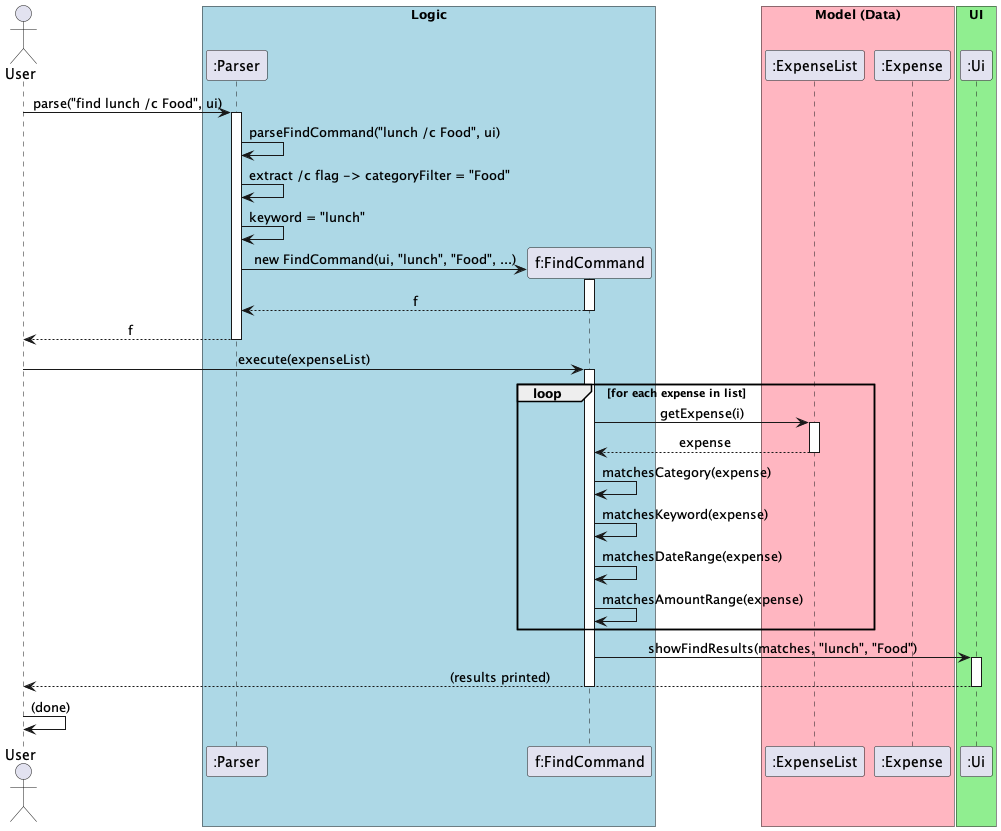
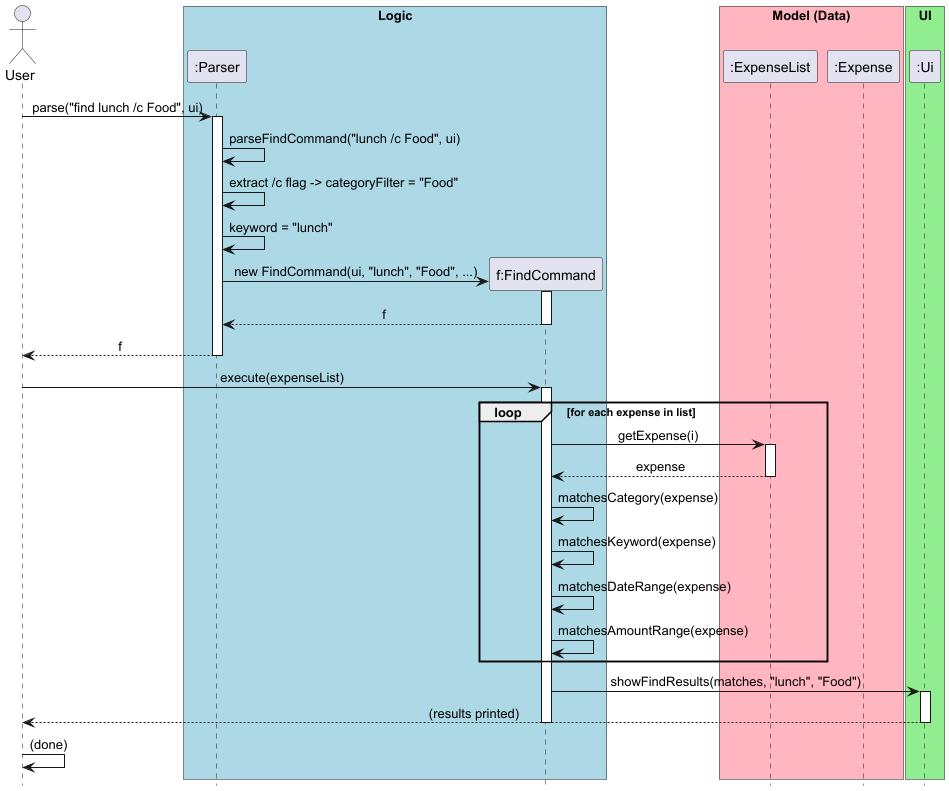
Fixed bugs in help command and formatted DG diagrams for uniformity

diff --git a/src/main/java/seedu/duke/ui/Ui.java b/src/main/java/seedu/duke/ui/Ui.java
@@ -132,14 +132,14 @@ public class Ui {
         System.out.println("             [/c CATEGORY] [/da DATE]");
         System.out.println("  find [KEYWORD] [/c CAT] [/dmin DATE]      - Find/filter expenses");
         System.out.println("       [/dmax DATE] [/amin AMT] [/amax AMT] [/sort asc|desc]");
-        System.out.println("  sort category|date                        - Sort expenses");
+        System.out.println("  sort category|date|amount                 - Sort expenses");
         System.out.println("  stats                                     - Show spending statistics and graph " +
                 "by category");
         System.out.println("  lend AMOUNT BORROWER [/da DATE]           - Record money lent to someone");
         System.out.println("  loans                                     - Show outstanding loans");
         System.out.println("  loans /all                                - Show all loans (incl. repaid)");
         System.out.println("  repay INDEX [AMOUNT]                      - Repay a loan (fully or partially)");
-        System.out.println("  help [COMMAND]                             - Show help for a command");
+        System.out.println("  help [COMMAND]                            - Show help for a command");
         System.out.println("  exit                                      - Exit the application");
         System.out.println("  forecast                                  - Show end-of-month spending forecast");
         System.out.println("Note: DATE must be in YYYY-MM-DD format (e.g. 2026-03-24).");
@@ -488,7 +488,7 @@ public class Ui {
      */
     public void showInvalidBudget() {
         System.out.println(LINE);
-        System.out.println("Budget must be a number greater then 0.");
+        System.out.println("Budget must be a number greater than 0.");
         System.out.println(LINE);
     }
 
@@ -958,6 +958,82 @@ public class Ui {
         System.out.println("Invalid format! The '" + command + "' command does not take any extra arguments.");
         System.out.println("Please just type '" + command + "'.");
         System.out.println("~~~~~~~~~~~~~~~~~~~~~~~~~~~~~~~~");
+    }
+
+    /**
+     * Displays usage instructions for the list command.
+     */
+    public void showListUsage() {
+        System.out.println(LINE);
+        System.out.println("Usage: list");
+        System.out.println("       list <YYYY-MM>");
+        System.out.println("Example: list");
+        System.out.println("Example: list 2026-03");
+        System.out.println(LINE);
+    }
+
+    /**
+     * Displays usage instructions for the total command.
+     */
+    public void showTotalUsage() {
+        System.out.println(LINE);
+        System.out.println("Usage: total");
+        System.out.println("Shows the total amount spent across all recorded expenses.");
+        System.out.println(LINE);
+    }
+
+    /**
+     * Displays usage instructions for the stats command.
+     */
+    public void showStatsUsage() {
+        System.out.println(LINE);
+        System.out.println("Usage: stats");
+        System.out.println("       stats <YYYY>");
+        System.out.println("Example: stats");
+        System.out.println("Example: stats 2026");
+        System.out.println(LINE);
+    }
+
+    /**
+     * Displays usage instructions for the forecast command.
+     */
+    public void showForecastUsage() {
+        System.out.println(LINE);
+        System.out.println("Usage: forecast");
+        System.out.println("Shows your projected end-of-month spending.");
+        System.out.println(LINE);
+    }
+
+    /**
+     * Displays usage instructions for the clear command.
+     */
+    public void showClearUsage() {
+        System.out.println(LINE);
+        System.out.println("Usage: clear");
+        System.out.println("Clears all expenses after confirmation.");
+        System.out.println(LINE);
+    }
+
+    /**
+     * Displays usage instructions for the exit command.
+     */
+    public void showExitUsage() {
+        System.out.println(LINE);
+        System.out.println("Usage: exit");
+        System.out.println("Saves data and exits the application.");
+        System.out.println(LINE);
+    }
+
+    /**
+     * Displays usage instructions for the help command.
+     */
+    public void showHelpUsage() {
+        System.out.println(LINE);
+        System.out.println("Usage: help");
+        System.out.println("       help <COMMAND>");
+        System.out.println("Example: help add");
+        System.out.println("Example: help budget");
+        System.out.println(LINE);
     }
 
     /**

diff --git a/src/main/java/seedu/duke/parser/Parser.java b/src/main/java/seedu/duke/parser/Parser.java
@@ -857,6 +857,27 @@ public class Parser {
         case "repay":
             ui.showRepayUsage();
             break;
+        case "list":
+            ui.showListUsage();
+            break;
+        case "total":
+            ui.showTotalUsage();
+            break;
+        case "stats":
+            ui.showStatsUsage();
+            break;
+        case "forecast":
+            ui.showForecastUsage();
+            break;
+        case "clear":
+            ui.showClearUsage();
+            break;
+        case "exit":
+            ui.showExitUsage();
+            break;
+        case "help":
+            ui.showHelpUsage();
+            break;
         default:
             ui.showUnknownCommand();
             break;

diff --git a/docs/DeveloperGuide.md b/docs/DeveloperGuide.md
@@ -89,7 +89,7 @@ A valid command results in the creation of an `AddCommand` object.
 Below is the sequence of interactions when the user enters a valid command such as `add 5.50 Coffee /c Food`:
 
 *Figure 2: Sequence Diagram detailing the Add feature execution.*
-![Sequence Diagram for Add Command](images/interactive-category-phase4.png)
+![Sequence Diagram for Add Command](images/add-command-sequence-diagram.png)
 
 `AddCommand.execute()` operates by:
 1. Checking whether a category was provided.
@@ -397,7 +397,7 @@ Below are the sequence diagrams for the load and save phases:
 ![Sequence Diagram for Storage Load](images/storage-load-diagram.png)
 
 *Figure 12b: Sequence Diagram detailing the Storage save phase.*
-![Sequence Diagram for Storage Save](images/storage-save-diagram.png)
+![Sequence Diagram for Storage Save](images/storage-save-diagram-v2.png)
 
 During `save()`, the `Storage` class:
 1. Creates the parent directory if it does not exist.
